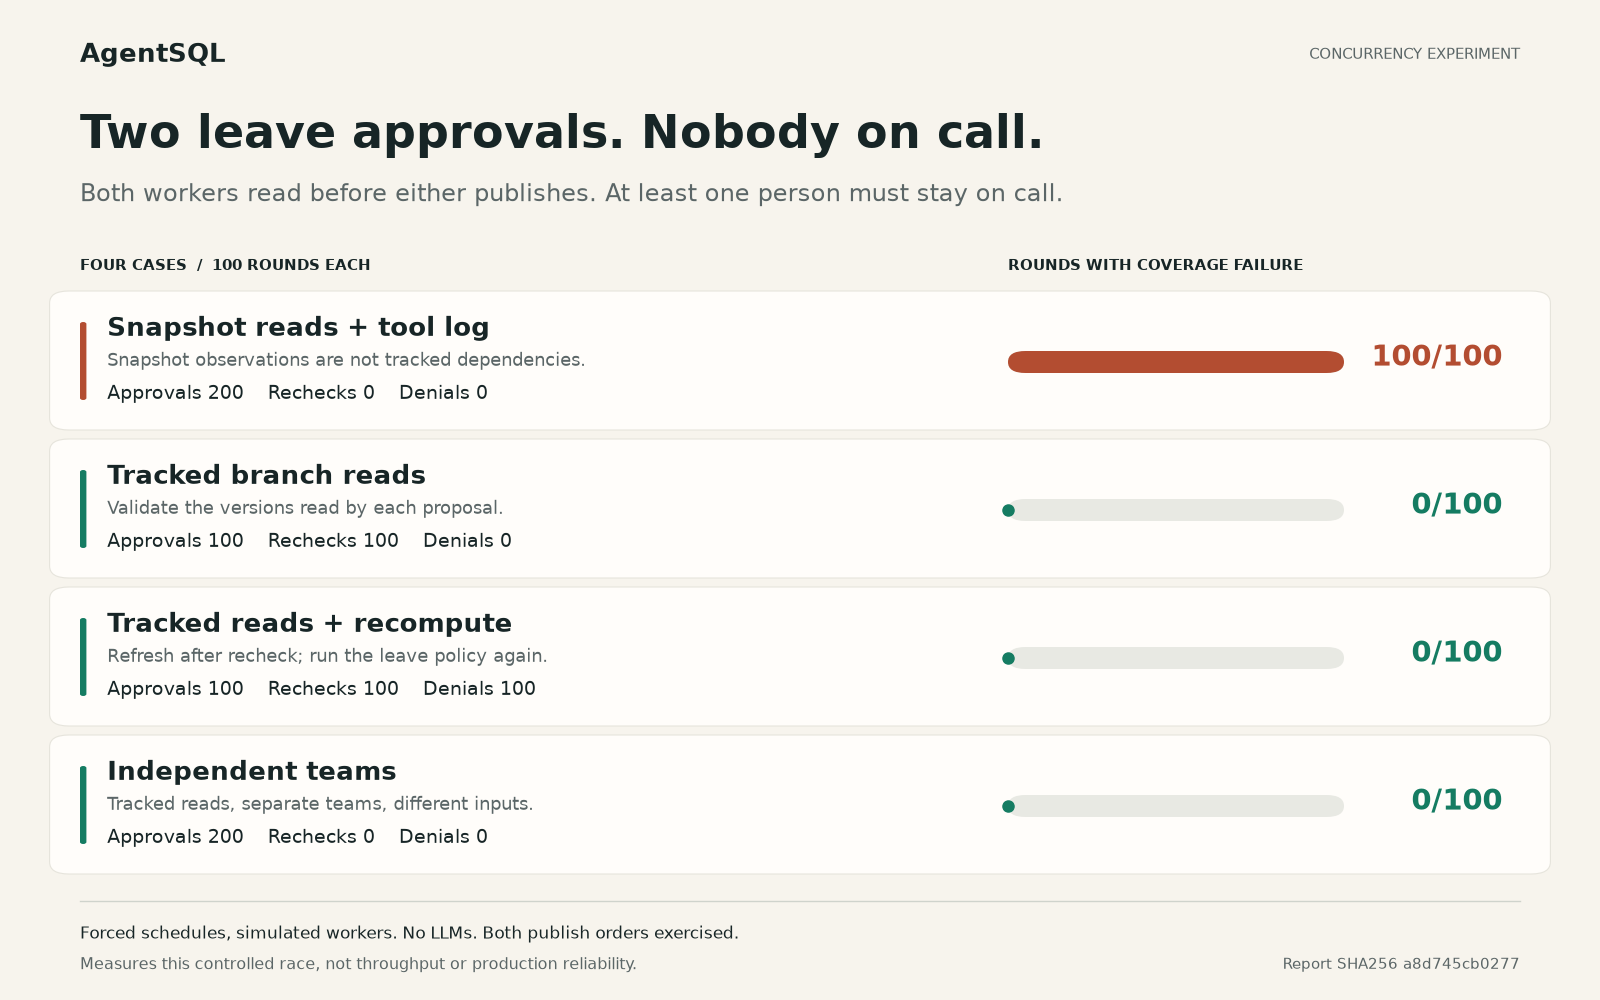
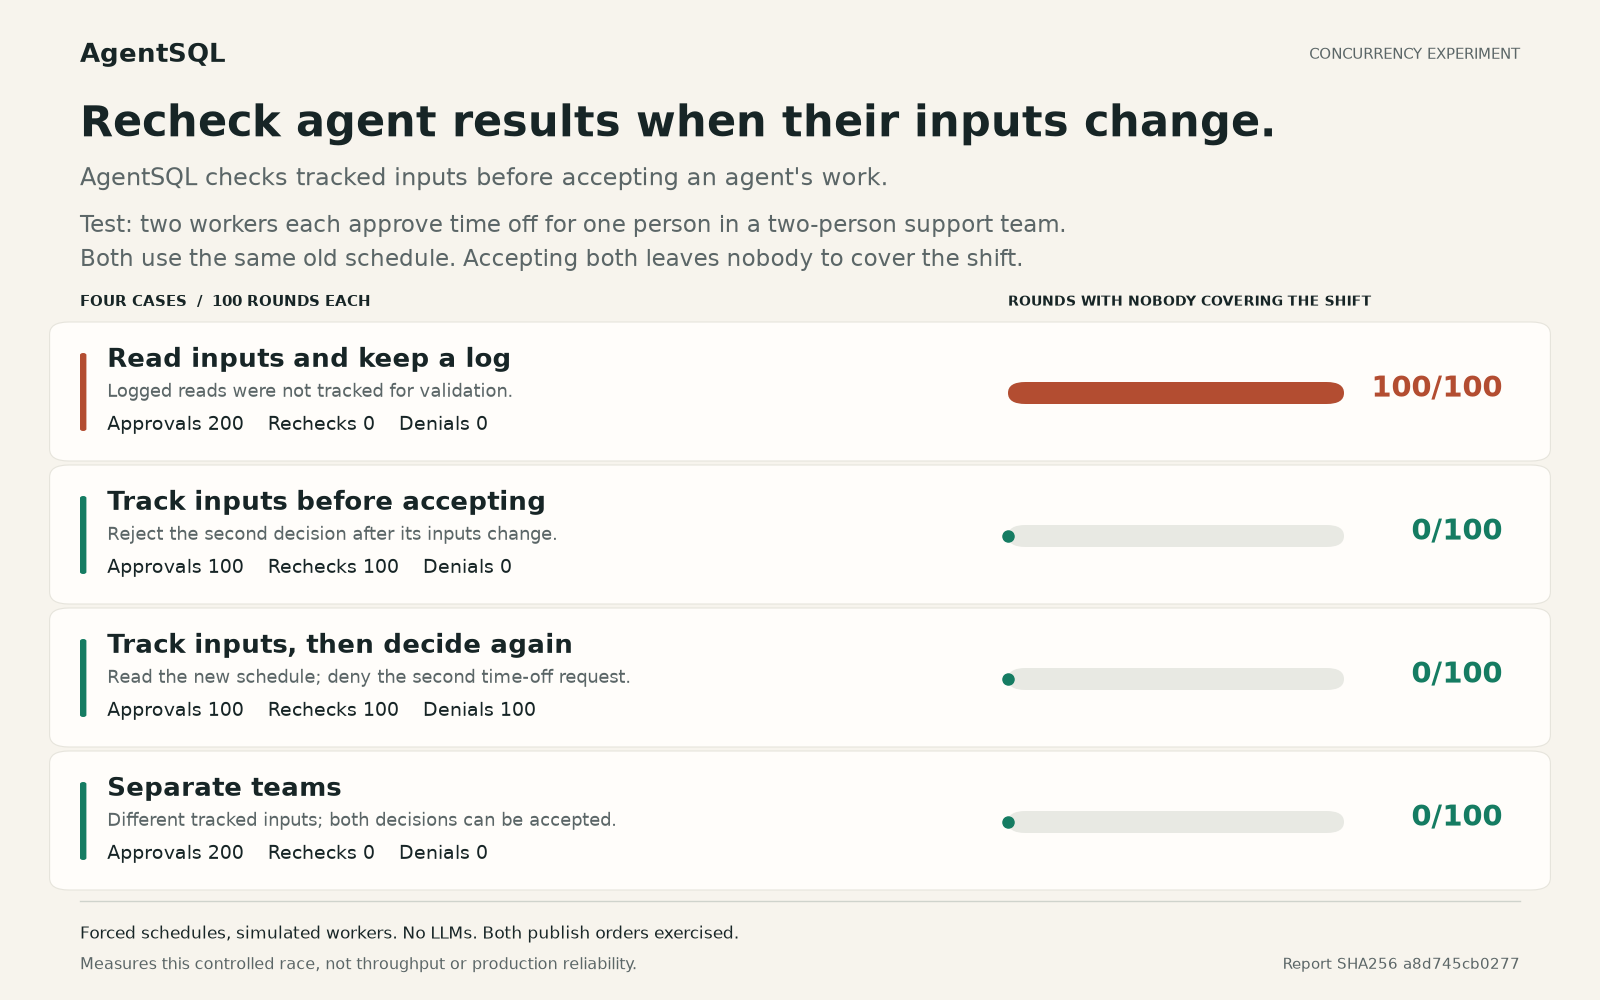
Clarify changed-input checks and the support-shift example

diff --git a/tools/render_on_call_race.py b/tools/render_on_call_race.py
@@ -23,23 +23,23 @@ from typing import Any
 CASES = (
     (
         "snapshot_reads_with_tool_log",
-        "Snapshot reads + tool log",
-        "Snapshot observations are not tracked dependencies.",
+        "Read inputs and keep a log",
+        "Logged reads were not tracked for validation.",
     ),
     (
         "tracked_branch_reads",
-        "Tracked branch reads",
-        "Validate the versions read by each proposal.",
+        "Track inputs before accepting",
+        "Reject the second decision after its inputs change.",
     ),
     (
         "tracked_plus_recompute",
-        "Tracked reads + recompute",
-        "Refresh after recheck; run the leave policy again.",
+        "Track inputs, then decide again",
+        "Read the new schedule; deny the second time-off request.",
     ),
     (
         "independent_teams",
-        "Independent teams",
-        "Tracked reads, separate teams, different inputs.",
+        "Separate teams",
+        "Different tracked inputs; both decisions can be accepted.",
     ),
 )
 
@@ -139,17 +139,27 @@ def render(report_path: Path, output_path: Path, svg_path: Path | None = None) -
     rounds = report["rounds_per_case"]
     text(0.05, 0.945, "AgentSQL", 19, weight="bold")
     text(0.95, 0.945, "CONCURRENCY EXPERIMENT", 10.5, ha="right", color=muted)
-    text(0.05, 0.864, "Two leave approvals. Nobody on call.", 33, weight="bold")
+    text(0.05, 0.875, "Recheck agent results when their inputs change.", 31, weight="bold")
     text(
-        0.05, 0.805,
-        "Both workers read before either publishes. At least one person must stay on call.",
+        0.05, 0.821,
+        "AgentSQL checks tracked inputs before accepting an agent's work.",
         17, color=muted,
     )
-    text(0.05, 0.734, f"FOUR CASES  /  {rounds:,} ROUNDS EACH", 11, weight="bold")
-    text(0.63, 0.734, "ROUNDS WITH COVERAGE FAILURE", 11, weight="bold")
+    text(
+        0.05, 0.774,
+        "Test: two workers each approve time off for one person in a two-person support team.",
+        16.5, color=muted,
+    )
+    text(
+        0.05, 0.740,
+        "Both use the same old schedule. Accepting both leaves nobody to cover the shift.",
+        16.5, color=muted,
+    )
+    text(0.05, 0.698, f"FOUR CASES  /  {rounds:,} ROUNDS EACH", 11, weight="bold")
+    text(0.63, 0.698, "ROUNDS WITH NOBODY COVERING THE SHIFT", 10, weight="bold")
 
     summaries = report["summary"]
-    row_centers = (0.638, 0.49, 0.342, 0.194)
+    row_centers = (0.607, 0.464, 0.321, 0.178)
     for (case_id, title, subtitle), y in zip(CASES, row_centers):
         case = summaries[case_id]
         unsafe = case["coverage_violations"]

diff --git a/experiments/on-call-race/README.md b/experiments/on-call-race/README.md
@@ -1,14 +1,22 @@
-# On-call race: audit history and tracked reads
+# Check changed inputs before accepting a worker's result
 
-Two workers can make individually plausible decisions, update different keys,
-and leave an invalid shared state. This lab models two responders, Alice and
-Bob, who each want to leave. The application rule is that at least one
-responder in each team must remain on call.
+AgentSQL checks whether a worker's tracked inputs changed before accepting its
+files and state changes. If another worker has changed a relevant input, the
+prepared result requires a recheck. Logging a tool call alone does not register
+that input as a dependency.
 
-Both workers prepare against the same accepted revision. Each sees another
-responder on call and proposes changing only its own status. These writes do
-not overlap. The comparison asks whether the observations used to make those
-decisions are validated when the proposals are accepted.
+This lab uses a two-person support team to make the problem concrete. Alice and
+Bob both request time off, but at least one person must remain available to
+cover the shift. Two workers read the same schedule before either saves a
+decision. One approves Alice's request because Bob is available. The other
+approves Bob's request because Alice is available.
+
+Each decision looks valid on its own. Accept both, and nobody is left to cover
+the shift. The workers change different keys, so checking only overlapping
+writes would not catch this problem. The comparison asks whether the inputs
+used to make each decision are validated when the worker's changes are
+accepted. In this lab, being available to cover the shift is called being
+"on call."
 
 The lab uses the published AgentSQL `0.3.0a1` SDK with no runtime API changes.
 The workers are real local Python processes; their decisions are simulated.
@@ -84,7 +92,7 @@ case. It checked all 400 seeded rosters and all 700 accepted decision revisions.
 The snapshot baseline's coverage failures are the expected negative-control
 outcome; they do not make its tool history disappear.
 
-![Controlled on-call race results: the snapshot-read baseline loses coverage in 100 of 100 trials; all three tracked cases have zero coverage violations.](../../docs/assets/on-call-race.png)
+![Two workers approve time off for the only two people available to cover a support shift. Without tracked reads, both requests are approved and nobody remains available in all 100 controlled trials. Tracked reads reject the stale decision for a recheck; the three tracked cases have no staffing-rule violations.](../../docs/assets/on-call-race.png)
 
 This run used AgentSQL `0.3.0a1`, Python 3.14.3, macOS 15.8.1, SQLite 3.53.4,
 and the multiprocessing `spawn` start method. The report includes the SDK base

diff --git a/README.md b/README.md
@@ -57,13 +57,16 @@ The [platform guide](docs/platform.md) shows the expanded `fs`, `kv`, and `tools
 interfaces, MCP connection, command runner, and an explicit capability comparison
 with AgentFS. Run `python examples/platform_demo.py` after installation.
 
-## On-call race experiment
+## Experiment: two time-off requests, one support shift
 
-Two workers can update different keys and still break a shared rule. The
-[on-call race lab](experiments/on-call-race/README.md) models two responders who
-each try to leave while at least one must remain on call. It compares logged
-snapshot reads with tracked branch reads, fresh recomputation, and independent
-teams using the same local SDK.
+AgentSQL checks whether tracked inputs changed before accepting a worker's
+result. The [support-team race lab](experiments/on-call-race/README.md) shows why:
+two workers each approve time off for one of the only two people available to
+cover a shift. Each sees the other person available, but accepting both
+decisions leaves nobody to cover the shift.
+
+The lab compares logged snapshot reads with tracked branch reads, fresh
+recomputation, and independent teams using the same local SDK.
 
 ```sh
 python examples/on_call_race.py --rounds 10 --output on-call-results.json
